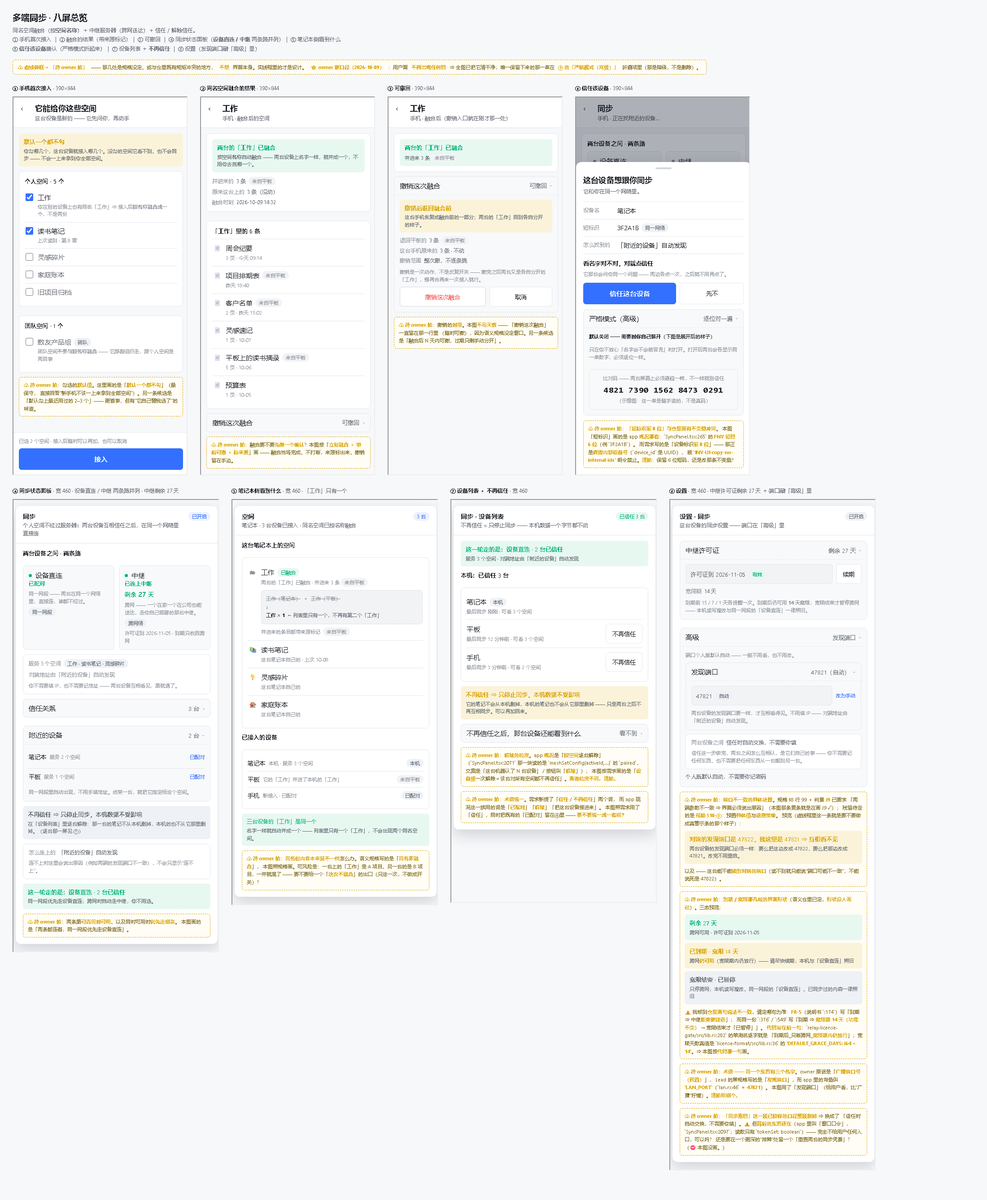
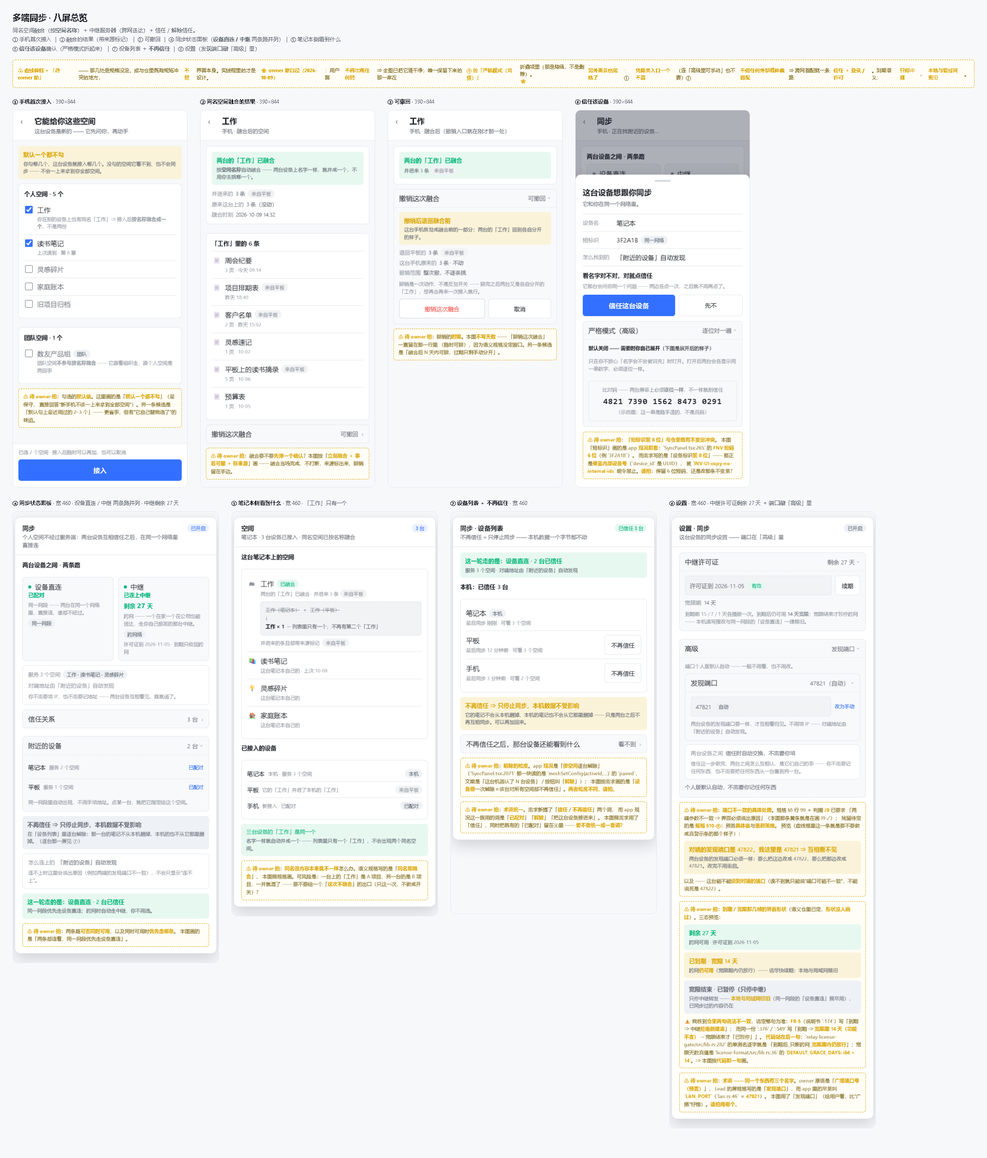
docs(specs): 嵌 9 张高保真效果图（含两张新口径 all.png / screen8.png）＋ owner 三条决策（到期只停中继 / 不要扫码 / 密码零输入）＋ 判据 J1-J22 与 §10 两栏待拍

Changed region(s): [[0.3709, 0.031, 0.8964, 0.9605], [0.0, 0.0, 0.4327, 0.8366]]

diff --git a/docs/specs/2026-10-09-multidevice-merge-semantics.md b/docs/specs/2026-10-09-multidevice-merge-semantics.md
@@ -7,6 +7,9 @@
 > ②「多个个人空间相互融合，**不含团队空间**」
 > ③「**用空间名称融合，而不是空间id**」
 
+![总览：多端同步八屏](../assets/multidevice-2026-10-09/all.png)
+*图注：`all.png`（**2200×2582**）· ★ 总览（八屏）—— 高保真效果图（示意；图里虚线黄框＝待拍）*
+
 ## 0. 一句话
 
 **语义一层、送达两条。**「谁跟谁同步、同名怎么并」**与怎么送达无关**；中继只是送达方式之一。
@@ -32,6 +35,9 @@
 
 ## 2. 融合的触发条件（**四条全中才融合**；缺一即不融合）
 
+![① 手机首次接入：它能给你这些空间（勾选）](../assets/multidevice-2026-10-09/screen1.png)
+*图注：`screen1.png`（**780×1688**）· ① 手机首次接入「它能给你这些空间」勾选（默认一个都不勾；团队空间显式标注**不参与按名称融合**）（对应 C4「新设备首次接入」＋ §8「它能看你哪几个空间」）—— 高保真效果图（示意；图里虚线黄框＝待拍）*
+
 | # | 条件 | 不中时的行为 |
 |---|---|---|
 | C1 | **同名** —— 按**名字**判等（§3 归一后），⛔ **不看 id** | 各留各的，**不并** |
@@ -56,6 +62,12 @@
 
 ## 5. 可撤 ＋ 标来源
 
+![② 同名空间融合的结果（含「来自平板」来源标记）](../assets/multidevice-2026-10-09/screen2.png)
+*图注：`screen2.png`（**780×1688**）· ② 同名空间融合的**结果**呈现（含「来自平板」来源标记、融合时刻、「工作」里的 6 条）—— 高保真效果图（示意；图里虚线黄框＝待拍）*
+
+![③ 融合后可撤回入口](../assets/multidevice-2026-10-09/screen3.png)
+*图注：`screen3.png`（**780×1688**）· ③ 融合后可撤回入口（展开态：「撤销后退回融合前」「整次撤，不逐条挑」）—— 对应本节「一次操作退回融合前」—— 高保真效果图（示意；图里虚线黄框＝待拍）*
+
 - **标来源**：每个并入条目可看出「**来自哪台**」（设备名／`device_id` ＋ 原空间名）。
 - **可撤**：一次操作退回**融合前**；退回后 `changes`、页面数、附件行数都回到基线（判据 §9-J5）。
 - 落地办法沿用现成那条：融合前先留**可核快照**（同 F13 的导出路径，明文库契约）。
@@ -70,6 +82,9 @@
 | D4 | **回收站／历史** | 回收站＝`pages.deleted_at`；另有 `page_versions`／`page_fts`(fts5)／`page_crdt` | 回收站条目**照原样并入**（不许悄悄复活）；`page_fts` 等派生物**重建**，⛔ 不搬原索引 |
 
 ## 7. 送达两条（**同一语义**；中继只是其中一条）
+
+![④ 同步状态面板：设备直连／中继 两条路并列（含「服务 3 个空间」）](../assets/multidevice-2026-10-09/screen4.png)
+*图注：`screen4.png`（**920×2020**）· ④ 同步状态面板 —— **设备直连／中继两条路并列**（含「服务 3 个空间」、附近的设备、信任关系 3 台、绿条「这一轮走的是：设备直连 · 2 台已信任」）—— 高保真效果图（示意；图里虚线黄框＝待拍）*
 
 | 送达 | 形态 | 今天的实测状态 |
 |---|---|---|
@@ -86,6 +101,9 @@
 - ⭐ 中继那条路还要能看见**许可证剩余天数**（owner 2026-10-09 点名）⇒ 见本节末的〈**中继许可证与剩余天数**〉（含"这个读数从哪来"的核查）。
 
 ### 中继许可证与剩余天数（**owner 2026-10-09 点名要显示**）
+
+![⑧ 设置：中继许可证 剩余 27 天／到期日 2026-11-05／宽限期 14 天／发现端口 47821](../assets/multidevice-2026-10-09/screen8.png)
+*图注：`screen8.png`（**920×2760**）· ⑧ 中继许可证与剩余天数（本节①②③的界面形状：剩余 27 天／许可证到 2026-11-05／宽限期 14 天／高级里的发现端口 47821＋「改为手动」／三态预览：剩余→宽限→已暂停「只停中继」）—— 高保真效果图（示意；图里虚线黄框＝待拍）*
 
 > ⭐ **owner 逐字**：「**显示剩余多少天；严格模式默认关闭**」（后半句落在 §8-bis ✓、判据 J20）
 
@@ -109,15 +127,18 @@
 **③ 边界**：⭐ **时钟容差 ±10 分钟**（路径与节号：`repos/shuyonote-relay/crates/license-format/` ／ 真相源 **§4**）⇒「时钟不准怎么办」**已定**；
 ⭐ ⛔ **不许显示负数**（应显示「**已到期**」）；「到期当天算 0 还是 1」⇒ **§10-⑱**。
 
-**④ 到期后怎么样 —— 产品口径，⭐ **不是待拍****
-- ⭐ 到期 ⭐ **只收回跨网（中继）**；⭐ **本地功能与本地数据不受影响**；⭐ ⛔ **任何一态都不得删除、加密、隐藏或改写用户数据**；⭐ **有宽限期，默认 14 天**。
-- ⚠ ⭐ **这四条今天「出处待补」**：产品仓里**没有**它们的产品侧出处（`ShuyoNote/` 内检索无对应文档）
+**④ 到期后怎么样 —— 产品口径，⭐ **owner 2026-10-09 已拍****
+- ⭐ 到期 ⭐ **只停中继服务（＝只收回跨网）**；⭐ **本地功能与本地数据不受影响**；⭐ **局域网／设备直连能力照旧** ✓；⭐ ⛔ **任何一态都不得删除、加密、隐藏或改写用户数据**；⭐ **有宽限期，默认 14 天**。
+- ⚠ ⭐ **这五条今天「出处待补」**：产品仓里**没有**它们的产品侧出处（`ShuyoNote/` 内检索无对应文档）
   ⇒ ⛔ **不拿商业组件仓的正文当产品侧出处**（仓界）⇒ 已列 **§10-⑳**（要在产品仓补一处出处）。
-- ⚠ ⭐ **仍要 owner 拍一条**：到期后 **设备直连（同网段）还能不能用**？本条字面上"只收回跨网" ⇒ **设备直连应当还能用**；但产品上要不要这样得 owner 说 ⇒ 两种后果写在 §10-⑲。
+- ⭐ **曾经的待拍点「到期后设备直连还能不能用」已结案**（owner 2026-10-09 拍：**照旧可用** ⇒ §10-⑲ 结案）。
 
 ⚠ **仓界（如实说）**：本节只引**路径与节号**，⛔ **不复述商业组件仓的任何正文句子** ✗（仓界口径：本仓 AGPL ／ 那份专有 ⇒ **只索引、不搬运**；跨仓引用**不作可点链接**，以免文档链跨出本仓）。
 
 ## 8. 权限模型（**owner 最新需求**）＋ 用户到底要填什么
+
+![⑥ 信任该设备弹层（两端各显示对方「设备名 ＋ 短标识」；含「严格模式（高级）」）](../assets/multidevice-2026-10-09/screen6.png)
+*图注：`screen6.png`（**780×1688**）· ⑥ 信任该设备弹层（设备名 ＋ 短标识 ⇒ J21；「严格模式（高级）」默认关、展开才逐位核对 ⇒ J17／J20）—— 高保真效果图（示意；图里虚线黄框＝待拍）*
 
 > ⭐ **owner 逐字（2026-10-09）**：
 > 「个人版同步需要用户填的东西：1、**广播端口号（预置）**；2、**同步密码**；3、**第一次连接，需要用户点一下"信任该设备"**；
@@ -130,14 +151,17 @@
 |---|---|---|
 | **端口** | 预置 ⇒ **默认不显示**，只在「高级」里可改；被占时**自动退避**；广播要报**真实端口** | 端口是网络层的细节，⛔ 不是用户的决定 |
 | ⭐ **必须可诊断** | 两端端口／发现参数不一致时，界面**必须说出原因** ✗ ⇒ ⛔ 不许只显示"连不上" | 今天正是「**配对成、端口通、用户什么都看不到**」—— 这就是代价 |
-| **同步密码** | **降级为可选**：个人版默认**自动派生、不让用户手输**（有账号/许可 ⇒ 自动；纯离线 ⇒ **扫码**；手动只作高级项） | 密码是**网络层的门**；用户要做的决定是「信不信任这台设备」。⚠ 让人手输长密码 ⇒ **错一位就连不上且无提示**（与今天那个 bug 同形）。⛔ 投放码已按 §8-bis-③ **整个去掉** |
+| **同步密码** | ⭐ **用户永远不输入**（**owner 2026-10-09 已拍** ✓）：默认**自动派生 ＋ 自动交换**；⚠ **连"高级里可手动"也不要** ✗。有账号/许可 ⇒ 自动；**跨网首配** ⇒ 只余**登录/许可**一条（⛔ **扫码也不要**，同日已拍） | 密码是**网络层的门**，而用户要做的决定是「信不信任这台设备」。⚠ 让人手输长密码 ⇒ **错一位就连不上且无提示**（与今天那个 bug 同形）。⛔ 投放码已按 §8-bis-③ **整个去掉**。⭐ **界面上任何"窗口口令／密码"的暴露面 ⇒ ⛔ 用户永远不需要看到**（今天的反例：`SyncPanel.tsx:2096` 要用户**手交**"地址 ＋ 窗口口令"）= J14 的反例之一 |
 | ⭐ **解除信任** | **只停止同步**；本地数据**一个字节都不动** ⇒ ⭐ **必须写在按钮旁边** | 解除关系 ≠ 删数据。⚠ 今天那句**不在**（`SyncPanel.tsx:2073-2076` 只说了"只影响那一台"） |
 | ⭐ **状态可读** | 「这一轮走的是：**设备直连 · N 台已信任**」＋「**服务 N 个空间**」＋「**本机：已信任 N 台**」 | 说不出来就是文档没写成；⛔ 不许停在"正在同步…" |
 | ⭐ **层次** | **信任＝设备级** ／ **融合＝空间级** ⇒「信任这台设备」⇒ 它能看**你勾选的那几个空间** ⇒ ⭐ **同名融合只在"被信任 ＋ 被勾选"的空间里发生** | 与 §2 接上：C2／C3 之前先过信任这一关 |
 
 ⚠ **现状与本节取值的落差（如实，别当成已实现）**：今天的「认哪些设备」是**每空间一行**（`mesh_paired_devices` 的 `PRIMARY KEY (space_id, device_id)`，`db.rs:420-426`）⇒ ⭐ **「设备级信任」今天是新增形状**；解除动作**已有实现**（`device_unpair`：删那一行 ＋ 从在跑的门上摘卡 ＋ 清本机那份秘密，`sync.rs:3316-3322`）⚠ 但**「本地数据零变化」今天没有判据钉着**（⇒ J10 待立）；今天的接入要**手交**「接线（地址 ＋ 窗口口令）」（`SyncPanel.tsx:2096`）⇒ J12／J13 正是要消灭这一步。
 
-⚠ **待 owner 拍（两点，与 owner 原话有落差）**：① **同步密码** —— owner 原话是"用户要填"的，本节默认**不填**（自动派生）；② **端口** —— owner 原话是"预置"，本节默认**不显示**（只在高级里可改）。
+![⑦ 设备列表 · 不再信任（本机：已信任 3 台）](../assets/multidevice-2026-10-09/screen7.png)
+*图注：`screen7.png`（**920×1800**）· ⑦ 设备列表 · **不再信任**（「本机：已信任 3 台」＋「不再信任 ⇒ 只停止同步，本机数据不受影响」）—— 对应本节「解除信任」＋ J10「本地数据零变化」／J11「对方不得再拉到」—— 高保真效果图（示意；图里虚线黄框＝待拍）*
+
+⚠ **owner 三条新决策（2026-10-09）**：① **到期只停中继服务** ✓（＝只收回跨网；**本地与局域网／设备直连照旧** ⇒ 见 §7④）；② ⛔ **扫码也不要** ✗（跨网首配只余**登录/许可**；§10-⑯ 结案）；③ ⭐ **密码也不要用户输入** ✗（含"高级里可手动"⇒ 上面那行已写死）。⭐ **端口**已给默认值（**§10-B ㉙：不要求用户填、只读显示**）⇒ 本节**不再挂待拍**；⭐ **归 owner 的**＝§10-④（融合后留谁的 id／名字）＋ **§10-A 栏**（㉒㉔㉖㉚）⇒ **待拍清单一律以 §10 为准**。
 
 ## 8-bis. 去码化（**用户面不再出现任何「码」**）
 
@@ -148,7 +172,7 @@
 | # | 码（今天的样子） | 它原来解决什么 | 现在谁替代 |
 |---|---|---|---|
 | ① | **比对码**：**20 位十进制、4 位一组**（`pairing.rs:293`），熵下限 **60 bit**（`pairing.rs:279`） | **防「换码」**——「两端各算一个比对码、由人核对一致」（`pairing.rs:277`） | ⭐ **默认关闭**（**owner 2026-10-09 已拍** ✓）⇒ **两端各显示对方「设备名 ＋ 短标识」**，看一眼就能对上（个人版是**自己的两台设备**，名字是用户自己起的）。⚠ ⛔ **不许删掉那条实现** ⇒ 降级为 ⭐ **「严格模式」**（高级里的开关，**用户主动展开**才逐位核对）—— 理由是**今天实测它真的挡下过一次配错** |
-| ② | **暗号**（`mesh_room`；个人空间今天**用户手输**，F7） | 网格**按暗号认空间**：`hub_spaces` 就是那个匹配键，`serves_space` 按**去空白字面量相等**判（`lan.rs:201-214`） | ⭐ 用户不再填 ⇒ ⭐ **信任时自动生成 ＋ 握手时交换**。⚠ **交换方式必须写清**（两端要拿到同一个值）；**若无法直连**（跨网首配）⇒ 走**中继**（靠账号/许可对上号）或**扫码**；但用户看到的仍是「**信任这台设备**」，⛔ 不是"抄一段码" |
+| ② | **暗号**（`mesh_room`；个人空间今天**用户手输**，F7） | 网格**按暗号认空间**：`hub_spaces` 就是那个匹配键，`serves_space` 按**去空白字面量相等**判（`lan.rs:201-214`） | ⭐ 用户不再填 ⇒ ⭐ **信任时自动生成 ＋ 握手时交换**。⚠ **交换方式必须写清**（两端要拿到同一个值）；**若无法直连**（跨网首配）⇒ 走**中继**（靠**登录/许可**对上号）—— ⛔ ⭐ **扫码也不要**（**owner 2026-10-09 已拍** ✗，§10-⑯ 结案）；但用户看到的仍是「**信任这台设备**」，⛔ 不是"抄一段码" |
 | ③ | **投放码**：今天就是那段 JSON 文本，**含窗口口令**（`SyncPanel.tsx:350`；lead 口径 171 字符，⚠ 仓内未复核） | 把「窗口端口 ＋ 绑定写法 ＋ 窗口口令」搬过网（`2026-09-29-personal-edition-tasks.md:67`） | ⭐ **整个去掉** ⇒ 三条理由：① 它**把窗口口令带在明文里**（`SyncPanel.tsx:350`，owner 截图里就有过）；② 局域网**自动发现已经报地址**（`LanAnnounce.hub_base`，F8）⇒ 常规场景**根本不需要它**；③ 跨网由**中继**承担 ⇒ 它只剩「发现失败时的兜底」，而那个兜底**应该是一句解释**（引 J9），⛔ 不是让用户手抄一段码 |
 
 ⚠ **两条必须一起改的（如实说，别漏）**
@@ -158,6 +182,9 @@
 - ⚠ **今天的形状恰好是反例**：面板逐字「**一次只装这一侧**」（`sync.rs:2646`）—— 一次只装一侧 ⇒ J16 要消灭的就是它。
 
 ## 9. 判据表（每条给**命令或可观察读数**）
+
+![⑤ 笔记本侧看到什么（「工作 × 1」—— 不存在第二个【工作】）](../assets/multidevice-2026-10-09/screen5.png)
+*图注：`screen5.png`（**920×1810**）· ⑤ 笔记本侧看到什么（「已融合·并进来 3 条 来自平板」「工作 × 1」＋ 已接入的设备）—— 判据 J1／J2／J5 的**观察面**之一 —— 高保真效果图（示意；图里虚线黄框＝待拍）*
 
 > ⚠ **诚实版**：下面 **22 条（J1–J22）今天一条都还没有**对应的 `check-*.mjs`（＝本层的「会红证据」现为 `❌ 无`）。
 > 它们的作用是**把"要立哪条判据、怎么才算红"先写成可执行的前置条件**，⛔ 不是"已经守住了"。
@@ -177,7 +204,7 @@
 | **J11** | 「不再信任」后 **对方不得再拉到本机数据** | 解除后对方再发一次 `/mesh/pull?space_id=…` | 被拒（403／拒连）；⛔ 还能拉到 ⇒ 红 |
 | **J12** | 端口预置**不需要用户填** ⇒ 首次同步全流程**零手输端口** | 从新设备接入到第一次同步成功，数用户的输入项 | 端口输入 **0 次**；预置生效 |
 | **J13** | 密码为自动时**无需知道密码**即可完成首次接入；且状态里**必须出现走的是哪条路** | 全程不问密码走首次接入；看状态面 | 接入成功；状态含「设备直连」或「中继」✗（⛔ 不出现路 ⇒ 红） |
-| **J14** | 默认流程里**用户可见文案不得出现"码"类要求** | 扫默认流程的可见文案（组件测＋人工过一遍） | ⛔ 出现「把对方那段码粘到这里」／「填比对码」／「配对暗号」⇒ **红** |
+| **J14** | 默认流程里**用户可见文案不得出现"码"类要求**，⭐ 也**不得要求用户看到/转交"窗口口令／密码"**（**owner 2026-10-09 已拍：密码不要用户输入** ✓） | 扫默认流程的可见文案（组件测＋人工过一遍） | ⛔ 出现「把对方那段码粘到这里」／「填比对码」／「配对暗号」／**要求看到或转交"窗口口令"** ⇒ **红**（今天的反例：`SyncPanel.tsx:2096`） |
 | **J15** | 首次接入**零手抄** | 数首次接入里"要用户复制/抄写"的步骤 | 任何一步要求复制**一段 > 20 字符的串** ⇒ **红** |
 | **J16** | 信任**必须双向成立** | 一侧点完信任，看**两侧**各自看到什么 | 只有一侧点了、另一侧什么都没看到 ⇒ **红**（⚠ 今天正是这个形状：`sync.rs:2646`「一次只装这一侧」） |
 | **J17** | **严格模式默认关闭**（**owner 2026-10-09 已拍** ✓）：默认（关）⇒ 比对码**不得**出现在默认流程；**用户主动展开** ⇒ 比对码显示**且两端逐位一致** | 开/关两种形态各走一次 | 关 ⇒ 默认流程里**看不到**它；开 ⇒ 两端一致才继续（不一致 ⇒ 停，`pairing.rs:346`） |
@@ -188,6 +215,8 @@
 | **J22** | 客户端**拿不到**天数时 ⭐ **不得显示假数** | 在"未接线／读不到"状态下看中继那一格 | 显示「**许可证状态未接线**」或**把那一格隐藏** ⇒ 可；⛔ 显示一个**没有出处的数**（如"剩余 27 天"）⇒ **红** |
 
 ## 10. 待定项（**今天定不了，写清为什么**）
+
+⭐ **已结案（owner 2026-10-09 拍，编号保留、不再占用）**：⑪「手动高级项」⇒ ⛔ **连高级里可手动也不要** ✓（密码一律不输入）／ ⑯「扫码算不算码」⇒ ⛔ **不要扫码** ✓ ／ ⑲「到期后设备直连还能不能用」⇒ **照旧可用** ✓（只停中继服务）／ §8 那条「同步密码是否手输」⇒ ⛔ **不要用户输入** ✓。
 
 | # | 待定 | 为什么现在定不了 |
 |---|---|---|
@@ -200,17 +229,39 @@
 | ⑦ | 中继「不可达」的判定门槛（多久／几次算不可达） | 仓里没有这条读数（F5 只证明了"通"那次）⇒ 阈值要么实测要么待定，⛔ 不猜一个数 |
 | ⑧ | 归一后的名字**要不要**随同步带过去 | F8：今天的公告**不带空间名** ⇒ 融合需要新的携带面，而那属于线上报文形状 |
 | ⑨ | 端口预置的**具体值**与退避策略 | 仓里今天只有常量 `LAN_PORT = 47821`（`lan.rs:46`）⇒ "预置哪个值、占了退到哪、退避几次"都是新的，⛔ 不猜 |
-| ⑩ | 「同步密码**自动派生**」的派生源 | 有账号/许可 ⇒ 自动：用哪份材料？纯离线 ⇒ **扫码**长什么样？⚠ 今天 `mesh_room` 是**用户手输**的暗号（F7）⇒ 自动派生是新增（⛔ 投放码已按 §8-bis-③ **整个去掉**，不再是候选） |
-| ⑪ | 手动（高级项）允许输到什么程度 | 与 §8「默认不填」是一体两面；边界未定 ⇒ ⛔ 不能靠实现随手决定 |
+| ⑩ | 「同步密码**自动派生**」的派生源 | 有账号/许可 ⇒ 自动：用哪份材料？⚠ **跨网首配只余登录/许可一条**（⛔ 扫码已按 owner 2026-10-09 拍：不要）；今天 `mesh_room` 是**用户手输**的暗号（F7）⇒ 自动派生是新增（⛔ 投放码已按 §8-bis-③ **整个去掉**，不再是候选） |
 | ⑫ | **设备级信任 ＋ 空间级勾选**存放位置 | 今天 `mesh_paired_devices` 是**每空间一行**（`db.rs:420-426`）⇒ 设备级是新增形状；空间级勾选**今天没有表** |
 | ⑬ | 解除信任后，**已经同步到对方**的那份怎么办 | 对方本机那份不在我们控制内 ⇒ 要说清"我们只停关系、不追删"，⛔ 不承诺做不到的事 |
 | ⑭ | 去码化后「**人核对**」用什么机器可判的证据 | 既有门禁 `check-pairing-requires-proof`（`gates.mjs:333`）钉的是「比对码真的比／采纳前先核对」⇒ 新握手（两端各显示**对方名字**＋各点一下）要给它**一条新的机械判据**；⛔ 不能只是"把门禁删了" |
 | ⑮ | 暗号**自动生成后怎么交换** ＋ 老用户怎么迁移 | 网格按暗号认空间（`lan.rs:201-214`）⇒ 两端必须拿到**同一个值**；若靠中继交换，个人空间**今天没有账号**（§10-①）⇒ 那一格得先拍；已填过暗号的老用户换值会不会变成"新空间"也未定 |
-| ⑯ | 「**扫码**」算不算 owner 说的那个"码" | §8-bis-② 让纯离线首配走扫码 ⇒ 与「不要码」有张力（扫码是**动作**，不是要用户抄写的那串文本）⇒ **待 owner 拍** |
 | ⑰ | 「剩余 N 天」**两处口径**取哪一个（⚠ **直接影响界面文案**） | 两个数**不一样**：**A 口径（到 `exp`）** ／ **B 口径（到"跨网彻底不可用"、含宽限）**。⇒ **用户看到的字也不同**：A ⇒「**剩余 27 天**」；B ⇒「**跨网可用 41 天**」（同一张卡、同一天的两个读数）。必须**显式选一个**，⛔ 不许两处各说各的（口径 B 的算法在 `repos/shuyonote-relay/crates/relay-server/src/lib.rs:342-348`） |
 | ⑱ | 到期**当天**算「剩余 0 天」还是「1 天」（＝取整边界） | 那一格的取整是**向下取整**（路径见 §7〈中继许可证与剩余天数〉②）；到期当天到底显示 0 还是 1，仓里没有这条口径 ⇒ ⛔ 不猜（J19 只管"不许显示负数"这一半） |
-| ⑲ | 到期后 **设备直连（同网段）还能不能用** | 本文 §7〈中继许可证与剩余天数〉④ 字面上是「到期**只收回跨网**」⇒ 设备直连**应当还能用**；但产品上要不要这样 ⇒ **待 owner 拍**。两种后果：**照用** ⇒ 个人版同网段完全不受订阅影响（＝④ 的字面义）；**停用** ⇒ 到期后连局域网也不通（＝把"跨网"解释成"非本机"） |
-| ⑳ | ⭐ **四条到期口径在产品仓的出处（出处待补）** | 本文 §7④ 那四条（只收回跨网／本地不受影响／任何一态不得删改加密隐藏数据／宽限期默认 14 天）今天在 **`ShuyoNote/` 里找不到产品侧出处** ⇒ ⛔ 不拿商业组件仓的正文当产品仓出处（仓界）⇒ 要么在产品仓补一处（如 `docs/` 下一节「订阅与到期」），要么由 owner 指定落点 |
+| ⑳ | ⭐ **到期口径在产品仓的出处（出处待补）** | 本文 §7④ 那**五条**（只停中继服务／本地不受影响／**局域网·设备直连照旧**／任何一态不得删改加密隐藏数据／宽限期默认 14 天）今天在 **`ShuyoNote/` 里找不到产品侧出处** ⇒ ⛔ 不拿商业组件仓的正文当产品仓出处（仓界）⇒ 要么在产品仓补一处（如 `docs/` 下一节「订阅与到期」），要么由 owner 指定落点 |
+
+### ㉑…㉛ ⭐ 来自**效果图黄框**（分两栏：A 只能 owner 定 ／ B 我方给默认值）
+
+⭐ **为什么分栏**（lead 2026-10-09 拍）：图与文档**必须一致**，而**不是每条都得占用 owner 的时间** —— A 栏进「最短清单」给他，B 栏我方言明默认值、**只在他反对时改**。
+
+**A 栏「要 owner 拍」**（⭐ 只能他定；⭐ **现在 3 条**：㉒㉔㉖ —— 进 lead 给 owner 的最短清单）
+
+| # | 问题 | 为什么要他拍 | 出处 |
+|---|---|---|---|
+| ㉒ | 融合要**不要先弹一个确认**？ | 默认走「立刻融合 ＋ 事后可撤 ＋ 标来源」会**当场改动用户数据**；「先确认」是产品取舍（本图按不确认画） | `screen2.png` |
+| ㉔ | **两条路能否同时可用、同时可用时优先走哪条**？ | **商业取舍**（设备直连免费／中继付费订购）；本图按「两条都连、同网段优先设备直连」画 | `screen4.png` |
+| ㉖ | **「短标识」显示几位**？ | 图里画 6 位 ＋「同一网络」，而仓里既有 6 位 FNV 短码（`SyncPanel.tsx:265`）与 `INV-UI-copy-no-internal-ids`（⛔ 不许裸 `device_id`）**互相冲突** ⇒ 保留 6 位还是改那条不变量，只能他拍 | `screen6.png` |
+
+**B 栏「我们能定（已给默认值）」**（⭐ 按此走；⭐ 只在他反对时改）
+
+| # | 问题 | 本规格默认值 | 出处 |
+|---|---|---|---|
+| ㉑ | 首次接入的**勾选默认值** | ⭐ **默认一个都不勾**（最保守：绝不「一上来就拿到你全部空间」） | `screen1.png` |
+| ㉓ | **撤销的时限** | ⭐ **一直可撤**（⛔ 不设 N 天窗口，也不做"过期只剩手动分开"） | `screen3.png` |
+| ㉕ | **同名但内容本来就不一样**怎么办 | ⭐ 给「**这次不融合**」的出口（**只这一次**，⛔ 不做成开关）—— 与 §2-C1「同名即融合」是默认、出口是例外 | `screen5.png` |
+| ㉗ | **解除的粒度** | ⭐ **设备级一次解除**（＝把 §8「信任＝设备级」贯彻到底）⚠ 今天 app 是**按空间逐台解除**（`SyncPanel.tsx:2071`）⇒ 这是要改的落差 | `screen7.png` |
+| ㉘ | **术语统一**（信任族） | ⭐ 统一成「**信任／不再信任**」（旧「已配对／解除」退场）；⚠ 连带既有文案与判据要改，属实现代价 | `screen7.png` |
+| ㉙ | **端口** | ⭐ **不要求用户填；显示为只读读数**（⇒ 不再是待拍项）⚠ 与 `screen8` 图里那个「改为手动」**有张力**（本规格默认＝只读；图跟着改，或他反对时再改） | `screen8.png` |
+| ㉚ | **要不要留「重置同步凭据」入口**（⭐ 2026-10-09 从 A 栏撤下来，见下） | ⭐ **不留**（⛔ 界面上连这个词都不该出现）—— 理由：owner 已拍「**密码也不要用户输入**」⇒ 把「凭据」这种内部概念端给用户**与那条口径直接冲突**；用户真要重置 ⇒ 走 ⭐ **「不再信任」＋「重新信任」**（两条都在界面上、都是用户语言） | 旧 `screen8` 黄框（⚠ 新图已无此框）＋ lead 2026-10-09 判断 |
+| ㉛ | **端口那个词叫什么**（给用户看的命名） | ⭐ 用「**发现端口**」（⚠ owner 原话是「**广播端口（预置）**」；app 常量是 `LAN_PORT`）—— 理由：界面上同一概念旁边写的是「**附近的设备**」⇒「发现」与它**同一族词**，而"广播"是**实现词**（用户不需要知道 UDP）；⭐ 且按 ㉙「只读显示」⇒ 这个词**只在"高级"里露一次**，影响面很小 | `screen8.png` |
 
 ---
 > **边界（如实说）**：本文只写**语义**与**判据**，⛔ 不含实现选型、不含 UI 稿、不含服务端接口设计。
